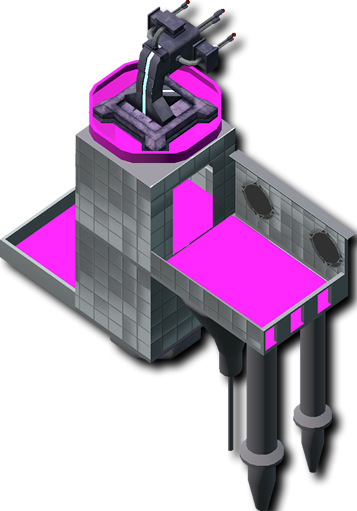
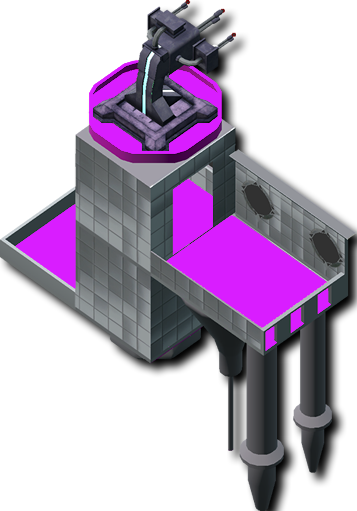
added animation to the enemy ship. NEED FINE-TUNING

Changed region(s): [[0.4622, 0.3523, 0.9244, 0.7045], [0.2465, 0.1174, 0.6471, 0.3229], [0.0308, 0.3816, 0.2157, 0.5577]]

diff --git a/js/index.js b/js/index.js
@@ -1,4 +1,38 @@
-console.log("INDEX JS");
+var animateEnemyShip = function () {
+
+	//get available window width
+	var window_width = window.screen.width
+		|| document.documentElement.clientWidth
+		|| document.body.clientWidth;
+
+	var parallax_height = getPositionFromTop(document.getElementById("first-panel"));
+		parallax_height = parallax_height.y;
+
+	var translateStr = 'translate(' + window_width.toString() + 'px, ' + parallax_height.toString() + 'px)'
+
+	var target = document.querySelector('#e_ship');
+	var player = target.animate([
+	  {transform: 'translate(0)'},
+	  {transform: translateStr }
+	], 5000);
+	player.addEventListener('finish', function() {
+	  target.style.transform = translateStr;
+	});	
+}
+
+//function to get distance of element to top of window, no matter where scroll position is
+function getPositionFromTop(element) {
+    var xPosition = 0;
+    var yPosition = 0;
+
+    while(element) {
+        xPosition += (element.offsetLeft - element.scrollLeft + element.clientLeft);
+        yPosition += (element.offsetTop - element.scrollTop + element.clientTop);
+        element = element.offsetParent;
+    }
+    return { x: xPosition, y: yPosition };
+}
+
 window.onload = function () {
 
 
@@ -77,6 +111,18 @@ window.onload = function () {
         	var blackDivOverlayHeight = bckgnd_tiles_height;
 	        bckgnd_tiles_height = (bckgnd_tiles_height-100).toString();
 
+	        //Add enemy ship
+	        var enemy_ship = document.createElement('img');
+
+	        enemy_ship.id = "e_ship"
+	        enemy_ship.src = "img/obj/e_ship.png";
+	        enemy_ship.className += "ui large image";
+	        enemy_ship.style.zIndex = "280";
+	        enemy_ship.style.position = "absolute";
+	        enemy_ship.style.top = "0px";
+	        enemy_ship.style.left = "0px";
+	        document.getElementById('intro').appendChild(enemy_ship);
+
 	        //Add black overlay behind logo
 	        document.getElementById("first-panel").style.marginTop = bckgnd_tiles_height + "px";
 
@@ -97,19 +143,7 @@ window.onload = function () {
 			function otherEvents() {
 				window.onscroll = function () {
 
-					//function to get distance of element to top of window, no matter where scroll position is
-					function getPosition(element) {
-					    var xPosition = 0;
-					    var yPosition = 0;
-
-					    while(element) {
-					        xPosition += (element.offsetLeft - element.scrollLeft + element.clientLeft);
-					        yPosition += (element.offsetTop - element.scrollTop + element.clientTop);
-					        element = element.offsetParent;
-					    }
-					    return { x: xPosition, y: yPosition };
-					}	
-					var distanceTop = getPosition(document.getElementById("first-panel"));
+					var distanceTop = getPositionFromTop(document.getElementById("first-panel"));
 
 					var scrollTop = $(window).scrollTop(),
 			        	elementOffset = distanceTop.y,
@@ -129,6 +163,7 @@ window.onload = function () {
 			var loaded = function() {
 	        	$('.dimmer').dimmer('hide');
 	        	otherEvents();
+	        	animateEnemyShip();
 			}
 
 			setTimeout( loaded, delay_time );			        
